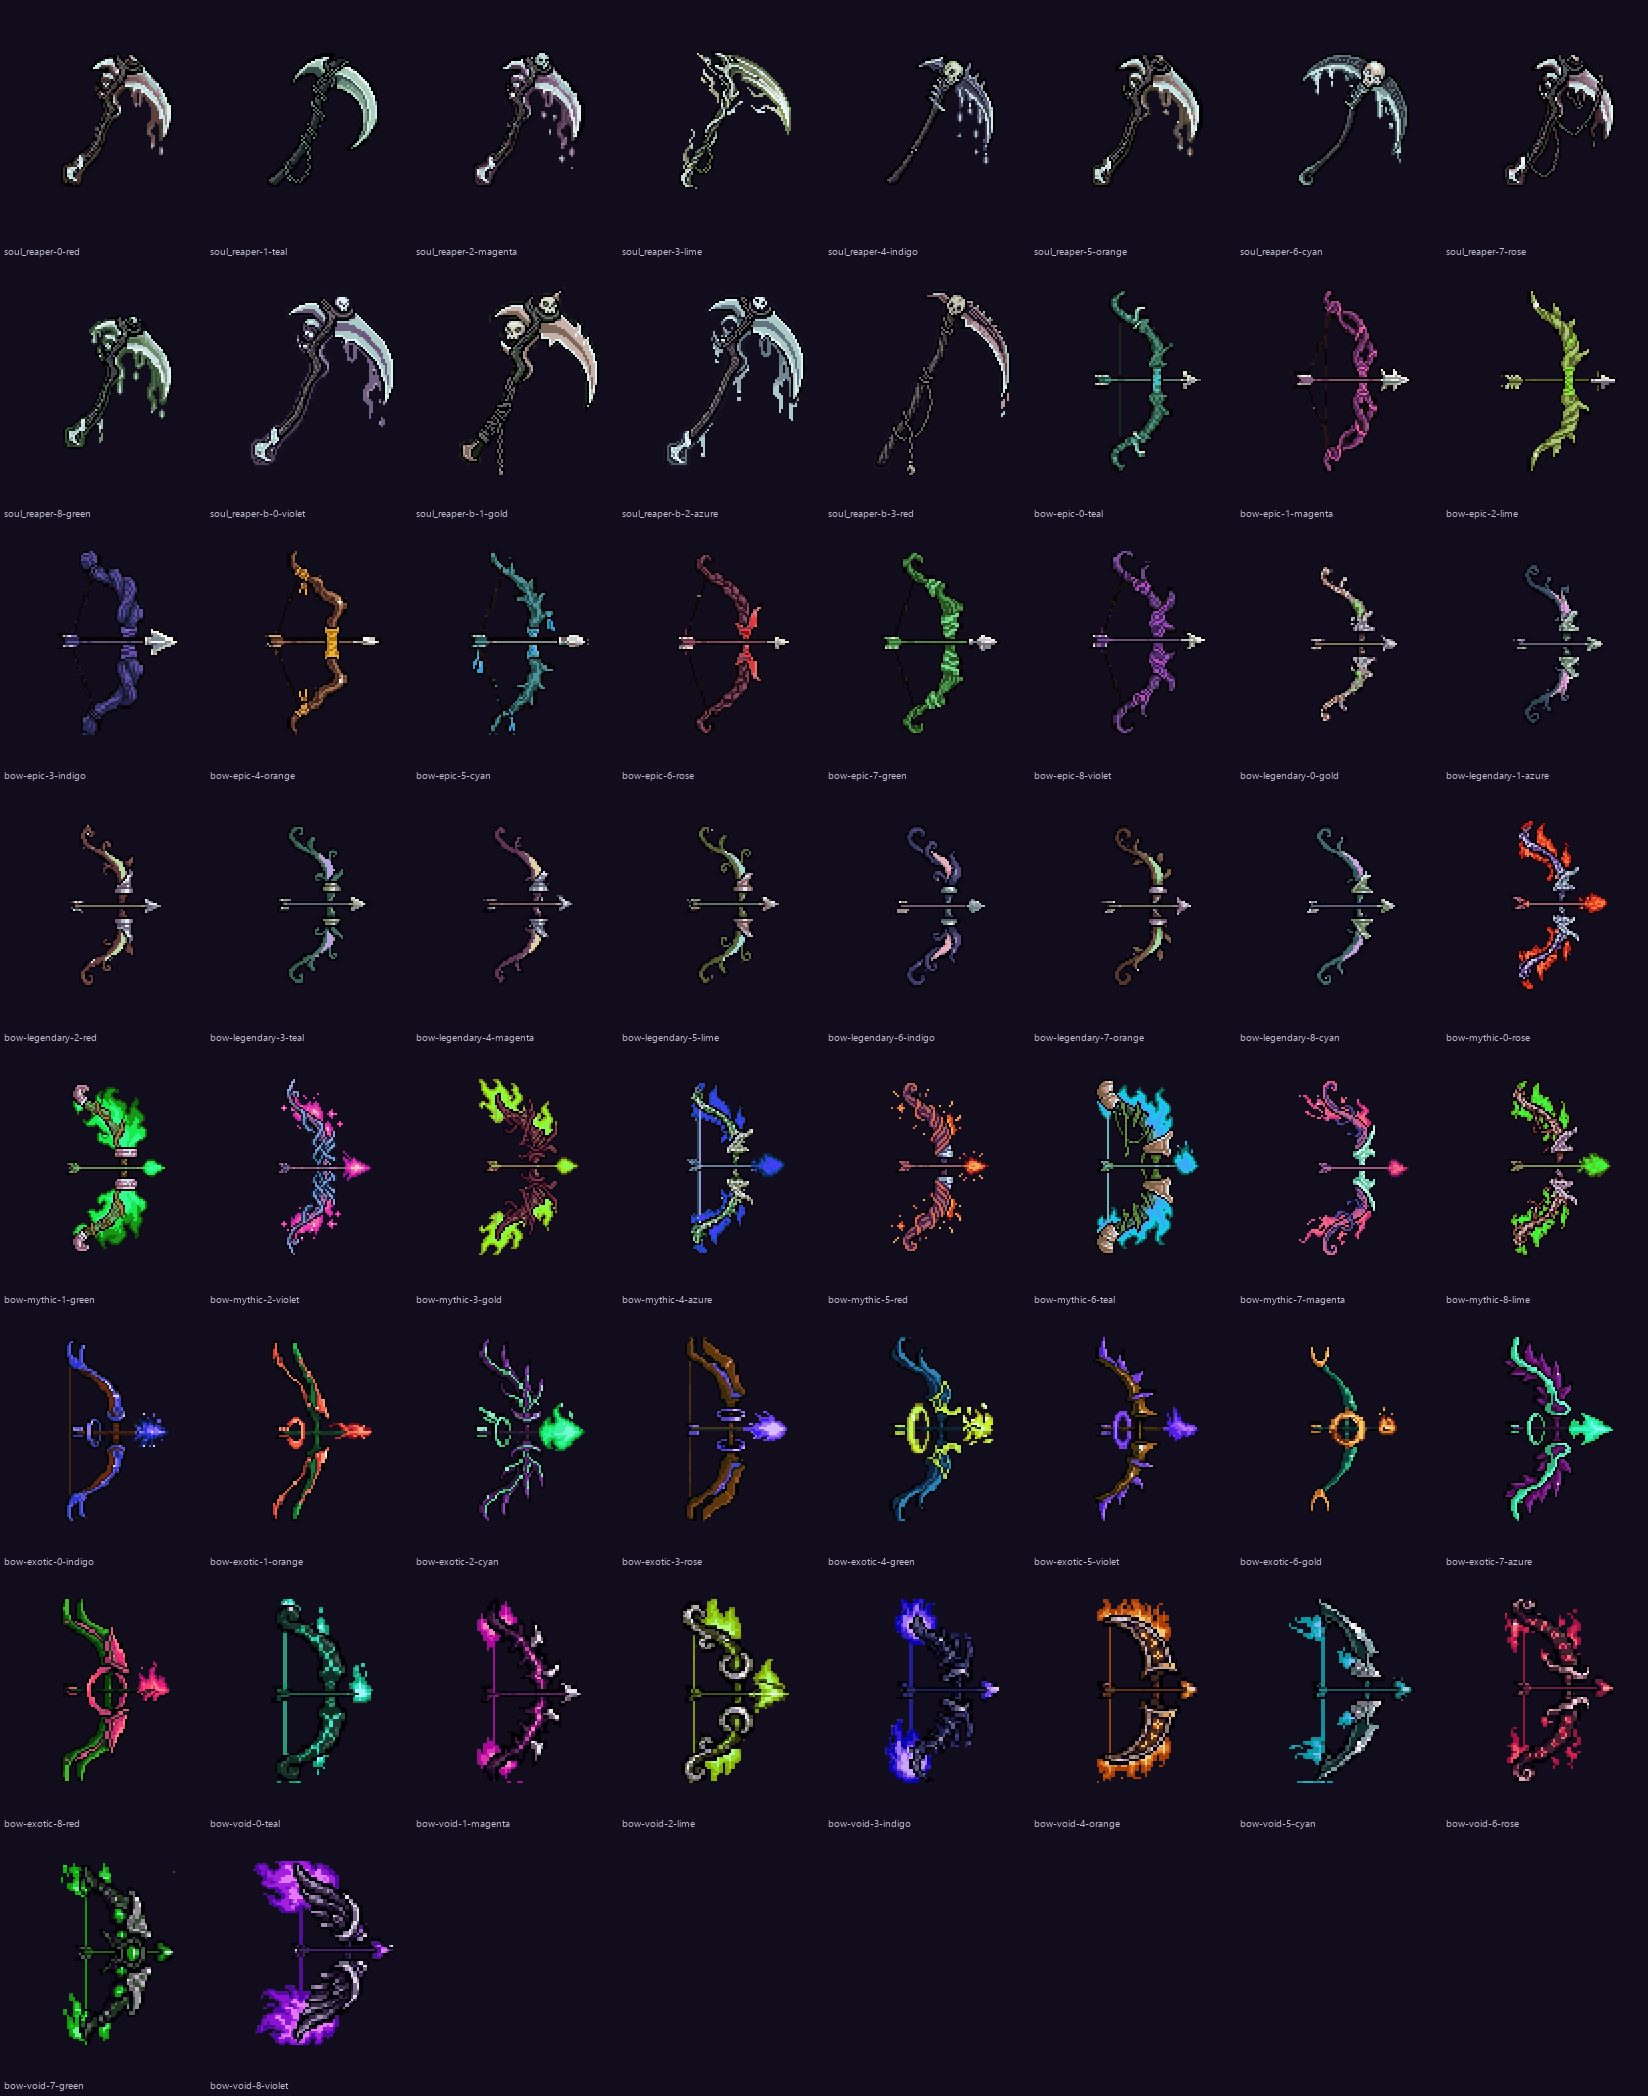
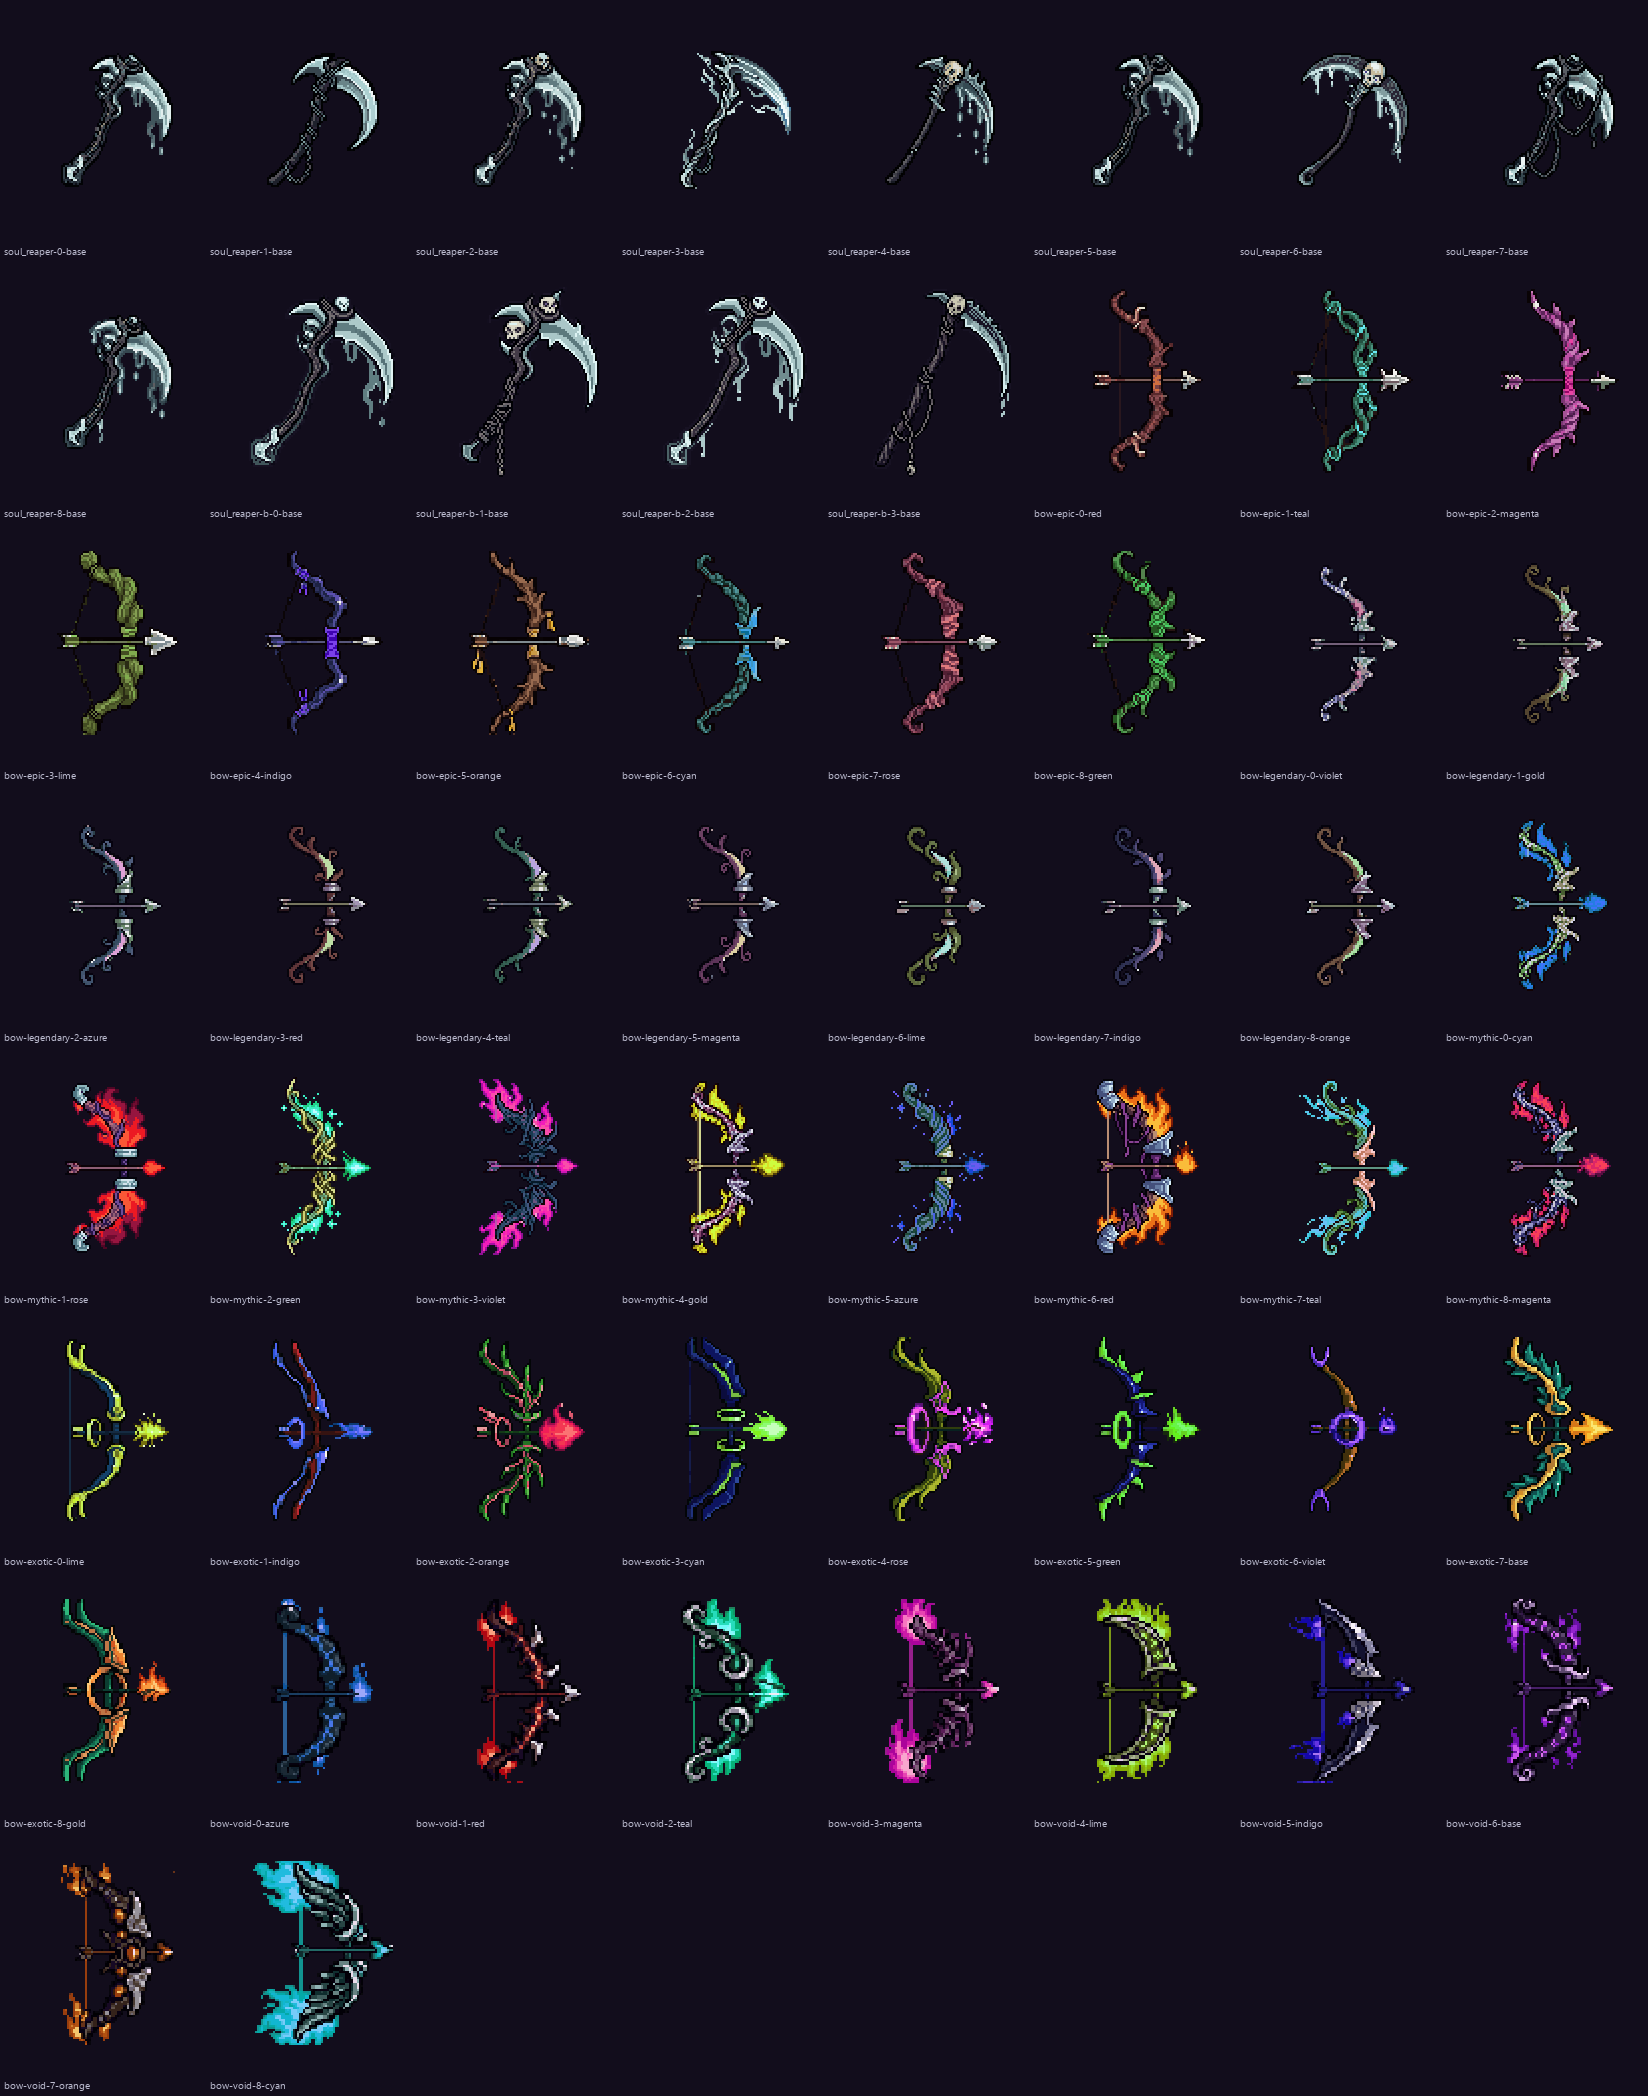
Art drafts: scythes and two chosen bows keep base colours, the rest recoloured

diff --git a/design/pixel/concept-sheet-1-new/recolor.py b/design/pixel/concept-sheet-1-new/recolor.py
@@ -33,6 +33,9 @@ SETS = {  # raw name prefix -> (count, canvas the old sprite sat on, window rari
     "item-bow-exotic-v2": 9, "item-bow-void-v2": 9,
 }
 MIN_S, MIN_V = 0.15, 0.15
+# Kept in their base colours (user, 2026-11-08): every scythe, and the purple void bow (candidate 6)
+# and the teal-and-gold exotic bow (candidate 7) the user pasted. The rest are recoloured.
+KEEP_BASE = {"evo-soul_reaper-v2a", "evo-soul_reaper-v2b", "item-bow-void-v2-6", "item-bow-exotic-v2-7"}
 
 
 def dominant_hue(a: np.ndarray) -> float:
@@ -73,12 +76,16 @@ def main() -> None:
     for prefix, n in SETS.items():
         for i in range(n):
             raw = np.array(Image.open(RAW / f"{prefix}-{i}.png").convert("RGBA"), dtype=np.uint8)
+            keep = prefix in KEEP_BASE or f"{prefix}-{i}" in KEEP_BASE
             name, deg = HUES[(k * 5) % 12]
-            k += 1
+            if not keep:
+                k += 1
             canvas = RS.pad_to(raw, (100, 120), centre) if raw.shape[:2] != (120, 100) else raw
             # No cleanup pass here: the halo removal and rim of RS.clean dulled the bright parts (review
             # 2026-11-08). The sprite keeps PixelLab's own outline and shading; only the alpha is made hard.
-            a = recolour(canvas, deg)
+            a = canvas.copy() if keep else recolour(canvas, deg)
+            if keep:
+                name = "base"
             a[..., 3] = np.where(a[..., 3] >= 128, 255, 0)
             a[a[..., 3] == 0] = 0
             stem = f"{prefix.replace('-v2a', '').replace('-v2b', '-b').replace('-v2', '')}-{i}-{name}"
